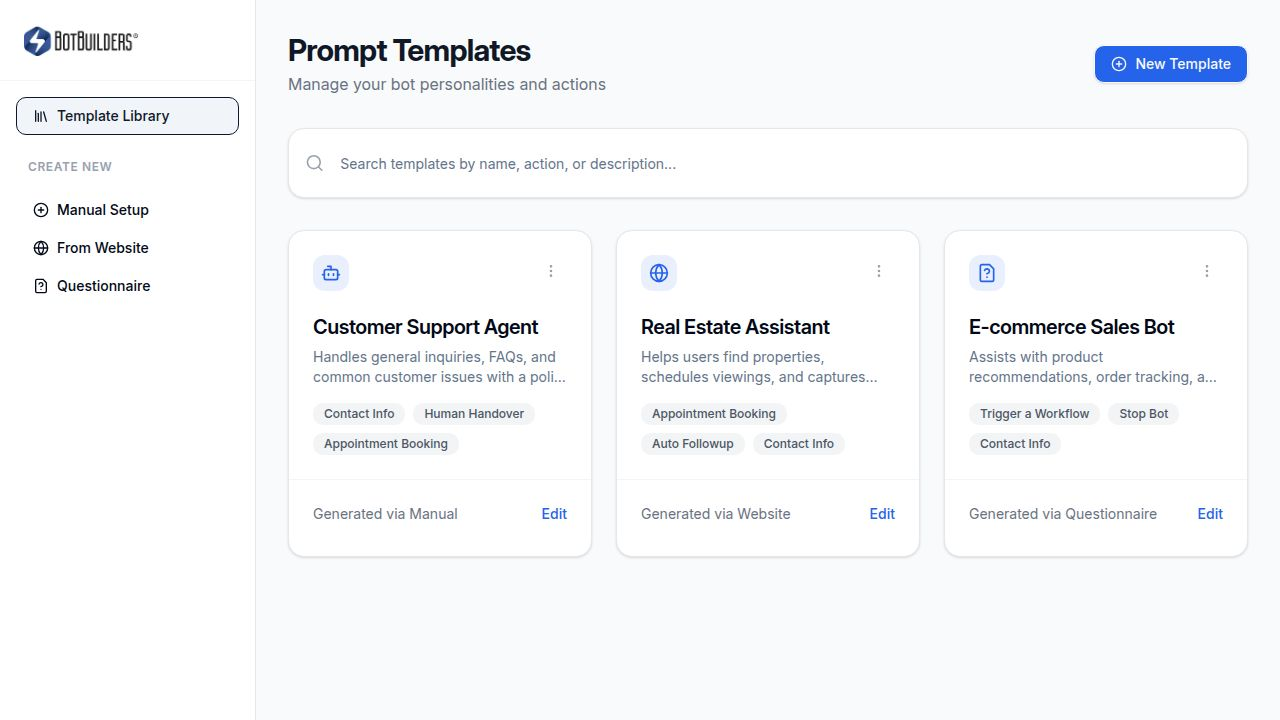
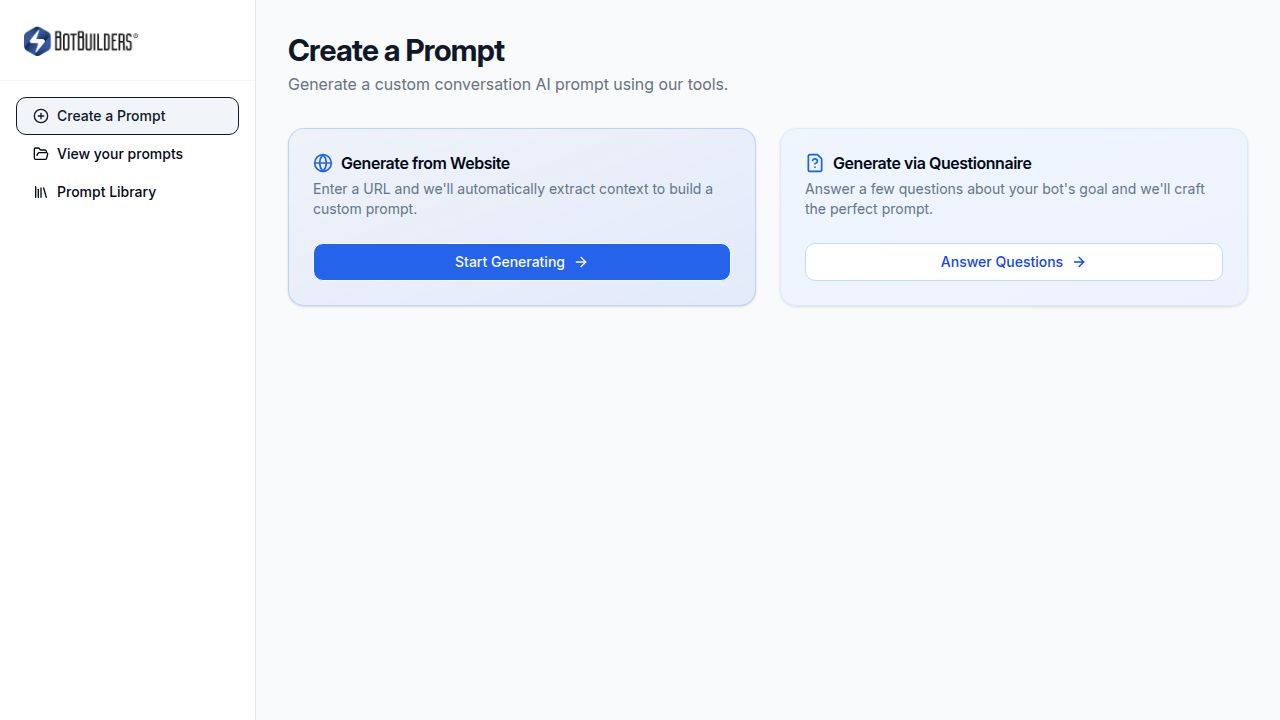
Organize the application navigation and create new pages for prompt management
Refactors the application's routing and layout components to introduce new pages for prompt creation hub, viewing user prompts, and browsing a prompt library. Introduces a dedicated bot recipe page accessible via dynamic routes.

Replit-Commit-Author: Agent
Replit-Commit-Session-Id: ba1162a2-5ff3-47b9-9108-1d08ce2baf4f
Replit-Commit-Checkpoint-Type: full_checkpoint
Replit-Commit-Event-Id: f2a8b39e-7564-4b64-a96a-e81019b13413
Replit-Commit-Screenshot-Url: https://storage.googleapis.com/screenshot-production-us-central1/be34d02f-01eb-447e-92a9-a6b3cbd2d463/ba1162a2-5ff3-47b9-9108-1d08ce2baf4f/pg2U5Z7
Replit-Helium-Checkpoint-Created: true

diff --git a/client/src/pages/library.tsx b/client/src/pages/library.tsx
@@ -1,0 +1,81 @@
+import { Button } from "@/components/ui/button";
+import { Card, CardContent, CardDescription, CardFooter, CardHeader, CardTitle } from "@/components/ui/card";
+import { Badge } from "@/components/ui/badge";
+import { Link } from "wouter";
+import { Search, Bot, ArrowRight } from "lucide-react";
+import { Input } from "@/components/ui/input";
+
+const TEMPLATES = [
+  {
+    id: "customer-support",
+    title: "Customer Support Agent",
+    description: "Handles general inquiries, FAQs, and common customer issues with a polite and helpful tone.",
+    actions: ["Contact Info", "Human Handover", "Appointment Booking"],
+    botName: "SupportAgent"
+  },
+  {
+    id: "real-estate",
+    title: "Real Estate Assistant",
+    description: "Helps users find properties, schedules viewings, and captures lead information.",
+    actions: ["Appointment Booking", "Auto Followup", "Contact Info"],
+    botName: "PropertyBot"
+  },
+  {
+    id: "ecommerce",
+    title: "E-commerce Sales Bot",
+    description: "Assists with product recommendations, order tracking, and cart recovery.",
+    actions: ["Trigger a Workflow", "Stop Bot", "Contact Info"],
+    botName: "SalesBot"
+  },
+];
+
+export default function Library() {
+  return (
+    <div className="space-y-8 animate-in fade-in slide-in-from-bottom-4 duration-500 pb-12">
+      <div>
+        <h1 className="text-3xl font-bold tracking-tight text-gray-900">Prompt Library</h1>
+        <p className="text-gray-500 mt-1">Pre-built niche templates for your Conversation AI.</p>
+      </div>
+
+      <div className="flex items-center gap-4 bg-white p-4 rounded-xl border border-gray-200 shadow-sm mb-6">
+        <Search className="h-5 w-5 text-gray-400" />
+        <Input 
+          placeholder="Search templates by name, action, or description..." 
+          className="border-0 shadow-none focus-visible:ring-0 px-0"
+        />
+      </div>
+
+      <div className="grid grid-cols-1 md:grid-cols-2 lg:grid-cols-3 gap-6">
+        {TEMPLATES.map((template) => (
+          <Card key={template.id} className="hover:shadow-md transition-all duration-200 border-gray-200 group hover:border-primary/30">
+            <CardHeader className="pb-4">
+              <div className="flex justify-between items-start">
+                <div className="p-2 bg-gray-100 rounded-lg text-gray-600">
+                  <Bot className="h-5 w-5" />
+                </div>
+              </div>
+              <CardTitle className="text-xl mt-4">{template.title}</CardTitle>
+              <CardDescription className="line-clamp-2">{template.description}</CardDescription>
+            </CardHeader>
+            <CardContent>
+              <div className="flex flex-wrap gap-2">
+                {template.actions.map(action => (
+                  <Badge key={action} variant="secondary" className="bg-gray-100 text-gray-600 font-medium text-xs">
+                    {action}
+                  </Badge>
+                ))}
+              </div>
+            </CardContent>
+            <CardFooter className="pt-4 border-t border-gray-100 flex justify-end">
+              <Link href={`/bot/${template.id}?name=${encodeURIComponent(template.botName)}`}>
+                <Button variant="outline" size="sm" className="gap-2">
+                  Open Prompt <ArrowRight className="h-3 w-3" />
+                </Button>
+              </Link>
+            </CardFooter>
+          </Card>
+        ))}
+      </div>
+    </div>
+  );
+}

diff --git a/client/src/pages/my-prompts.tsx b/client/src/pages/my-prompts.tsx
@@ -1,0 +1,78 @@
+import { Button } from "@/components/ui/button";
+import { Card, CardContent, CardDescription, CardFooter, CardHeader, CardTitle } from "@/components/ui/card";
+import { Badge } from "@/components/ui/badge";
+import { Link } from "wouter";
+import { Bot, ArrowRight, Clock } from "lucide-react";
+
+const MY_PROMPTS = [
+  {
+    id: "demo-site-bot",
+    title: "Demo Site Bot",
+    description: "Generated from example.com. Focuses on lead capture and general FAQs.",
+    actions: ["Contact Info"],
+    date: "2 hours ago",
+    botName: "DemoBot"
+  },
+  {
+    id: "support-helper",
+    title: "Support Helper",
+    description: "Built via questionnaire. Friendly IT support assistant.",
+    actions: ["Appointment Booking", "Contact Info"],
+    date: "Yesterday",
+    botName: "TechHelper"
+  }
+];
+
+export default function MyPrompts() {
+  return (
+    <div className="space-y-8 animate-in fade-in slide-in-from-bottom-4 duration-500 pb-12">
+      <div className="flex flex-col sm:flex-row justify-between items-start sm:items-center gap-4">
+        <div>
+          <h1 className="text-3xl font-bold tracking-tight text-gray-900">Your Prompts</h1>
+          <p className="text-gray-500 mt-1">Manage and access your generated conversation AI bots.</p>
+        </div>
+      </div>
+
+      <div className="grid grid-cols-1 md:grid-cols-2 lg:grid-cols-3 gap-6">
+        {MY_PROMPTS.map((template) => (
+          <Card key={template.id} className="hover:shadow-md transition-all duration-200 border-gray-200 group hover:border-primary/30">
+            <CardHeader className="pb-4">
+              <div className="flex justify-between items-start">
+                <div className="p-2 bg-gray-100 rounded-lg text-gray-600">
+                  <Bot className="h-5 w-5" />
+                </div>
+                <div className="flex items-center text-xs text-gray-400 gap-1">
+                  <Clock className="h-3 w-3" />
+                  {template.date}
+                </div>
+              </div>
+              <CardTitle className="text-xl mt-4">{template.title}</CardTitle>
+              <CardDescription className="line-clamp-2">{template.description}</CardDescription>
+            </CardHeader>
+            <CardContent>
+              <div className="flex flex-wrap gap-2">
+                {template.actions.map(action => (
+                  <Badge key={action} variant="secondary" className="bg-gray-100 text-gray-600 font-medium text-xs">
+                    {action}
+                  </Badge>
+                ))}
+              </div>
+            </CardContent>
+            <CardFooter className="pt-4 border-t border-gray-100 flex justify-end">
+              <Link href={`/bot/${template.id}?name=${encodeURIComponent(template.botName)}`}>
+                <Button variant="outline" size="sm" className="gap-2">
+                  Open Prompt <ArrowRight className="h-3 w-3" />
+                </Button>
+              </Link>
+            </CardFooter>
+          </Card>
+        ))}
+        {MY_PROMPTS.length === 0 && (
+          <div className="col-span-full py-12 text-center text-gray-500 bg-white rounded-xl border border-dashed border-gray-200">
+            No prompts generated yet. Go to "Create a Prompt" to get started!
+          </div>
+        )}
+      </div>
+    </div>
+  );
+}

diff --git a/client/src/pages/create-hub.tsx b/client/src/pages/create-hub.tsx
@@ -1,0 +1,53 @@
+import { Card, CardContent, CardDescription, CardFooter, CardHeader, CardTitle } from "@/components/ui/card";
+import { Button } from "@/components/ui/button";
+import { Link } from "wouter";
+import { Globe, FileQuestion, ArrowRight } from "lucide-react";
+
+export default function CreateHub() {
+  return (
+    <div className="space-y-8 animate-in fade-in slide-in-from-bottom-4 duration-500 pb-12">
+      <div className="flex flex-col sm:flex-row justify-between items-start sm:items-center gap-4">
+        <div>
+          <h1 className="text-3xl font-bold tracking-tight text-gray-900">Create a Prompt</h1>
+          <p className="text-gray-500 mt-1">Generate a custom conversation AI prompt using our tools.</p>
+        </div>
+      </div>
+
+      <div className="grid grid-cols-1 md:grid-cols-2 gap-6 mb-10">
+        <Card className="bg-gradient-to-br from-primary/5 to-primary/10 border-primary/20 shadow-sm">
+          <CardHeader>
+            <CardTitle className="flex items-center gap-2">
+              <Globe className="h-5 w-5 text-primary" />
+              Generate from Website
+            </CardTitle>
+            <CardDescription>Enter a URL and we'll automatically extract context to build a custom prompt.</CardDescription>
+          </CardHeader>
+          <CardFooter>
+            <Link href="/generate/website" className="w-full">
+              <Button className="w-full gap-2">
+                Start Generating <ArrowRight className="h-4 w-4" />
+              </Button>
+            </Link>
+          </CardFooter>
+        </Card>
+
+        <Card className="bg-gradient-to-br from-blue-50 to-indigo-50 border-blue-100 shadow-sm">
+          <CardHeader>
+            <CardTitle className="flex items-center gap-2">
+              <FileQuestion className="h-5 w-5 text-blue-600" />
+              Generate via Questionnaire
+            </CardTitle>
+            <CardDescription>Answer a few questions about your bot's goal and we'll craft the perfect prompt.</CardDescription>
+          </CardHeader>
+          <CardFooter>
+            <Link href="/generate/questionnaire" className="w-full">
+              <Button variant="secondary" className="w-full gap-2 bg-white hover:bg-gray-50 text-blue-700 border border-blue-200">
+                Answer Questions <ArrowRight className="h-4 w-4" />
+              </Button>
+            </Link>
+          </CardFooter>
+        </Card>
+      </div>
+    </div>
+  );
+}

diff --git a/client/src/components/Layout.tsx b/client/src/components/Layout.tsx
@@ -1,7 +1,7 @@
 import { Link, useLocation } from "wouter";
 import logo from "@assets/botbuilderslogo_1772058512069.png";
 import { Button } from "@/components/ui/button";
-import { PlusCircle, Library, Globe, FileQuestion } from "lucide-react";
+import { PlusCircle, Library, FolderOpen } from "lucide-react";
 
 export function Layout({ children }: { children: React.ReactNode }) {
   const [location] = useLocation();
@@ -22,42 +22,28 @@ export function Layout({ children }: { children: React.ReactNode }) {
               variant={location === "/" ? "secondary" : "ghost"}
               className="w-full justify-start gap-2"
             >
-              <Library className="h-4 w-4" />
-              Template Library
-            </Button>
-          </Link>
-          
-          <div className="pt-6 pb-2 px-3 text-xs font-semibold text-gray-400 uppercase tracking-wider">
-            Create New
-          </div>
-          
-          <Link href="/create">
-            <Button
-              variant={location === "/create" ? "secondary" : "ghost"}
-              className="w-full justify-start gap-2"
-            >
               <PlusCircle className="h-4 w-4" />
-              Manual Setup
+              Create a Prompt
             </Button>
           </Link>
           
-          <Link href="/generate/website">
+          <Link href="/my-prompts">
             <Button
-              variant={location === "/generate/website" ? "secondary" : "ghost"}
+              variant={location === "/my-prompts" ? "secondary" : "ghost"}
               className="w-full justify-start gap-2"
             >
-              <Globe className="h-4 w-4" />
-              From Website
+              <FolderOpen className="h-4 w-4" />
+              View your prompts
             </Button>
           </Link>
           
-          <Link href="/generate/questionnaire">
+          <Link href="/library">
             <Button
-              variant={location === "/generate/questionnaire" ? "secondary" : "ghost"}
+              variant={location === "/library" ? "secondary" : "ghost"}
               className="w-full justify-start gap-2"
             >
-              <FileQuestion className="h-4 w-4" />
-              Questionnaire
+              <Library className="h-4 w-4" />
+              Prompt Library
             </Button>
           </Link>
         </nav>

diff --git a/client/src/App.tsx b/client/src/App.tsx
@@ -5,16 +5,20 @@ import { Toaster } from "@/components/ui/toaster";
 import { TooltipProvider } from "@/components/ui/tooltip";
 import { Layout } from "@/components/Layout";
 import NotFound from "@/pages/not-found";
-import Home from "@/pages/home";
-import CreatePrompt from "@/pages/create-prompt";
+import CreateHub from "@/pages/create-hub";
+import MyPrompts from "@/pages/my-prompts";
+import Library from "@/pages/library";
+import BotRecipe from "@/pages/bot-recipe";
 import GenerateWebsite from "@/pages/generate-website";
 import GenerateQuestionnaire from "@/pages/generate-questionnaire";
 
 function Router() {
   return (
     <Switch>
-      <Route path="/" component={Home} />
-      <Route path="/create" component={CreatePrompt} />
+      <Route path="/" component={CreateHub} />
+      <Route path="/my-prompts" component={MyPrompts} />
+      <Route path="/library" component={Library} />
+      <Route path="/bot/:id" component={BotRecipe} />
       <Route path="/generate/website" component={GenerateWebsite} />
       <Route path="/generate/questionnaire" component={GenerateQuestionnaire} />
       <Route component={NotFound} />

diff --git a/client/src/pages/bot-recipe.tsx b/client/src/pages/bot-recipe.tsx
@@ -60,13 +60,15 @@ export default function CreatePrompt() {
   return (
     <div className="space-y-6 animate-in fade-in slide-in-from-bottom-4 duration-500 pb-12">
       <div className="flex items-center gap-4">
-        <Link href="/">
+        <Link href="/my-prompts">
           <Button variant="outline" size="icon" className="h-8 w-8">
             <ArrowLeft className="h-4 w-4" />
           </Button>
         </Link>
         <div>
-          <h1 className="text-2xl font-bold tracking-tight text-gray-900">Your Prompt Recipe</h1>
+          <h1 className="text-2xl font-bold tracking-tight text-gray-900">
+            {new URLSearchParams(window.location.search).get('name') || "Your Bot"}'s Prompt Recipe
+          </h1>
           <p className="text-gray-500 text-sm">Review, tweak, and copy these values into your GoHighLevel account.</p>
         </div>
       </div>

diff --git a/client/src/pages/generate-questionnaire.tsx b/client/src/pages/generate-questionnaire.tsx
@@ -42,7 +42,7 @@ export default function GenerateQuestionnaire() {
       // Simulate generation delay
       setTimeout(() => {
         setIsGenerating(false);
-        setLocation("/create");
+        setLocation("/bot/generated-from-qna?name=QuestionnaireBot");
       }, 2000);
     }
   };

diff --git a/client/src/pages/generate-website.tsx b/client/src/pages/generate-website.tsx
@@ -16,7 +16,7 @@ export default function GenerateWebsite() {
     // Simulate generation delay
     setTimeout(() => {
       setIsGenerating(false);
-      setLocation("/create");
+      setLocation("/bot/generated-from-site?name=WebsiteBot");
     }, 2000);
   };
 
